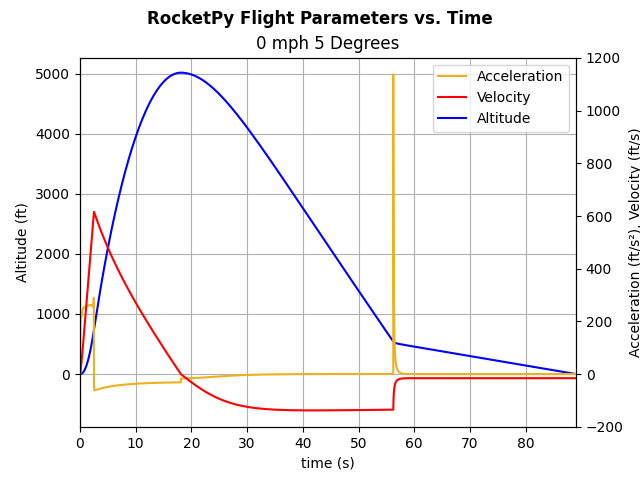
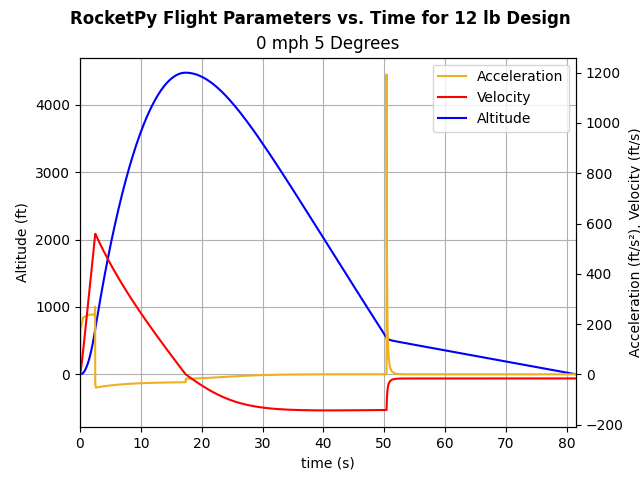
Added folder for old config files

diff --git a/SLUIRP/plotting/sim_plots.py b/SLUIRP/plotting/sim_plots.py
@@ -2,7 +2,7 @@ from matplotlib import *
 import numpy as np
 import matplotlib.pyplot as plt
 
-def prof_graph(drift, alt, ws, angle, program):
+def prof_graph(drift, alt, ws, angle, program, more = None):
     ################################################################################
     # Graphs horizontal position against vertical position, creating a profile of the flight
     # INPUTS:
@@ -16,14 +16,14 @@ def prof_graph(drift, alt, ws, angle, program):
     ax1.set_ylabel("Altitude (ft)")
     ax1.set_xlabel('Drift Distance (ft)')
     lns3 = ax1.plot(drift, alt, color=(0, 0, 1))
-    plt.suptitle(program + " Flight Profile",
+    plt.suptitle(program + " Flight Profile " + more if more != None else "",
         fontweight = 'bold')
     plot_name = str(ws)+" mph " + str(angle) + " Degrees"
     plt.title(plot_name)
     plt.grid()
     plt.savefig('Plots/' + plot_name + program + " Profile.png", format='png')
 
-def param_graph(time, alt, vel, accel, ws, angle, program):
+def param_graph(time, alt, vel, accel, ws, angle, program, more = None):
     ################################################################################
     # Graphs horizontal position against vertical position, creating a profile of the flight
     # INPUTS:
@@ -59,7 +59,7 @@ def param_graph(time, alt, vel, accel, ws, angle, program):
         ax2.set_ylim(bottom = ax2_ylims[1]*ax1_yratio)
     else:
         ax1.set_ylim(bottom = ax1_ylims[1]*ax2_yratio)
-    plt.suptitle(program + " Flight Parameters vs. Time",
+    plt.suptitle(program + " Flight Parameters vs. Time " + more if more != None else "" ,
                 fontweight = 'bold')
     plot_name = str(ws)+" mph " + str(angle) + " Degrees"
     plt.xlim((0, time[-1]))

diff --git a/SLUIRP/sims/RocketPySim.py b/SLUIRP/sims/RocketPySim.py
@@ -56,7 +56,7 @@ def get_ST_env(wind_speed):
         temperature=None) #no change from standard atmosphere in temperature
     return(env)
 
-def multi_sim(angles, speeds, vehicle):
+def multi_sim(angles, speeds, vehicle, name = None):
     ###################################################################################
     #Creates profile plots and vertical movement plots given pairs of angles and wind
     # speeds, also outputs useful data to output file
@@ -109,10 +109,10 @@ def multi_sim(angles, speeds, vehicle):
                 vel_main_deploy = vel[vIndex]
                 time_main_deploy = time[vIndex]
                 #print("alt:" + str(alt[-1]))
-        plot_name = param_graph(time, alt, vel, accel, speeds[i], angles[i], "RocketPy")
+        plot_name = param_graph(time, alt, vel, accel, speeds[i], angles[i], "RocketPy", name)
         
         #Makes profile graphs for flight, altitude vs drift distance
-        prof_graph(drift, alt, speeds[i], angles[i], "RocketPy")
+        prof_graph(drift, alt, speeds[i], angles[i], "RocketPy", name)
 
         final_vel.append(vel[-1])
         stability.append(testFlight.stability_margin(testFlight.out_of_rail_time))

diff --git a/main.py b/main.py
@@ -24,10 +24,10 @@ def main():
     speeds = [0, 5, 10, 15, 20]
 
 
-    vehicle = SLUIRP.data.OpenYAML.readYaml("ConfigFiles/2026_Proposal_8lb.yaml")
+    vehicle = SLUIRP.data.OpenYAML.readYaml("ConfigFiles/2026_Proposal_12lb.yaml")
     #compare_sim_real(vdf_data, env, 3, "VDF Flight")
     #graph_thrust()
-    SLUIRP.sims.RocketPySim.multi_sim(angles, speeds, vehicle)
+    SLUIRP.sims.RocketPySim.multi_sim(angles, speeds, vehicle, "for 12 lb Design")
     #graph_OR()
     #testFlight.plots.trajectory_3d()
     #testFlight.plots.all()
